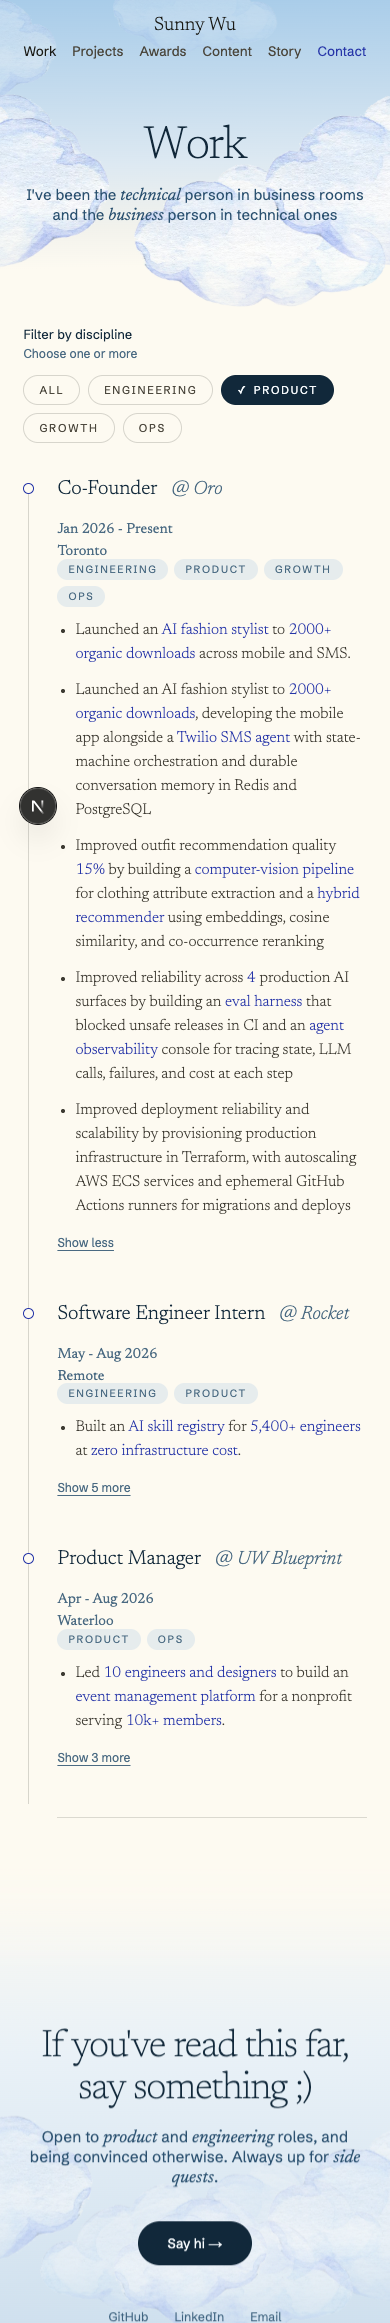
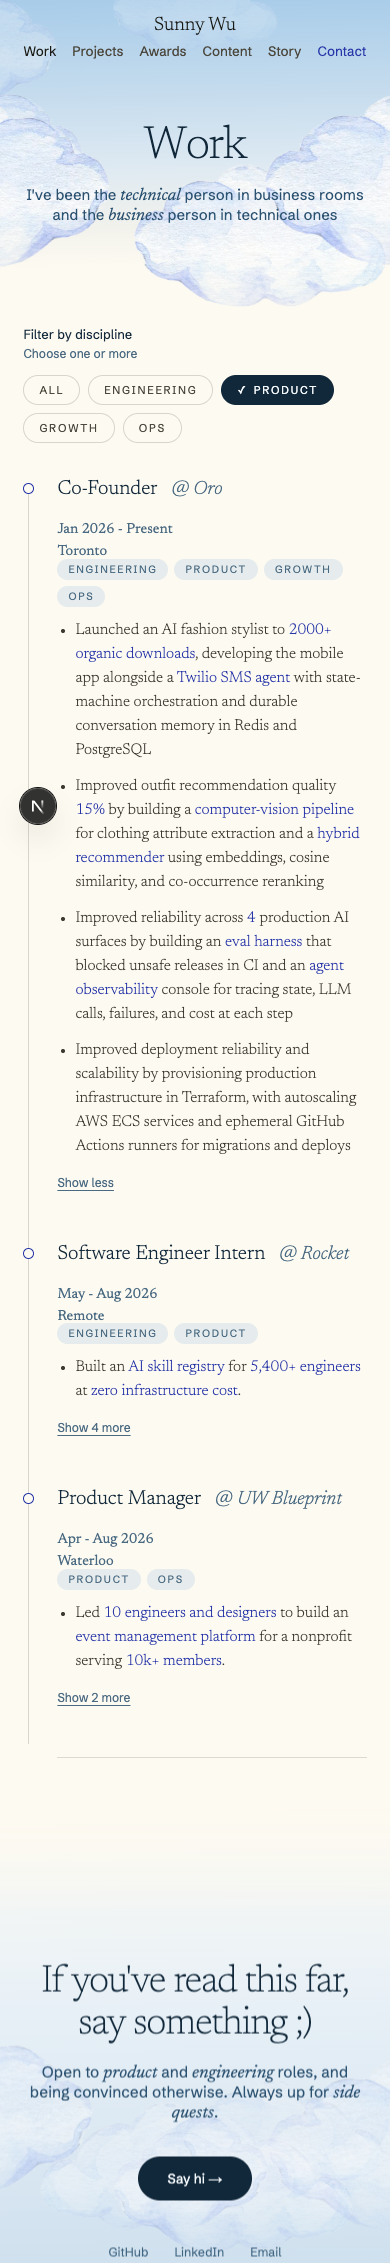
Swap summaries for full resume bullets when expanded

diff --git a/frontend/components/WorkTimeline.tsx b/frontend/components/WorkTimeline.tsx
@@ -211,9 +211,19 @@ export default function WorkTimeline() {
                 ))}
               </div>
 
-              <ul className="experience-bullets" style={{ color: color.body, fontFamily: font.serif }}>
-                <li>{highlightMetrics(role.summary ?? role.bullets[0])}</li>
-              </ul>
+              <div
+                id={`${roleSlug(role.company)}-preview`}
+                className={role.summary ? "experience-details" : undefined}
+                data-expanded={!role.summary || !expandedRoles.has(role.company)}
+                aria-hidden={!!role.summary && expandedRoles.has(role.company)}
+                inert={!!role.summary && expandedRoles.has(role.company)}
+              >
+                <div className="experience-details-inner">
+                  <ul className="experience-bullets" style={{ color: color.body, fontFamily: font.serif }}>
+                    <li>{highlightMetrics(role.summary ?? role.bullets[0])}</li>
+                  </ul>
+                </div>
+              </div>
               {role.bullets.length > (role.summary ? 0 : 1) && (
                 <div
                   id={`${roleSlug(role.company)}-bullets`}
@@ -236,8 +246,8 @@ export default function WorkTimeline() {
                   type="button"
                   aria-expanded={expandedRoles.has(role.company)}
                   className="experience-toggle"
-                  aria-controls={`${roleSlug(role.company)}-bullets`}
-                  aria-label={`${expandedRoles.has(role.company) ? "Show less" : `Show ${role.bullets.length - (role.summary ? 0 : 1)} more`} about ${role.company}`}
+                  aria-controls={`${roleSlug(role.company)}-preview ${roleSlug(role.company)}-bullets`}
+                  aria-label={`${expandedRoles.has(role.company) ? "Show less" : `Show ${role.bullets.length - 1} more`} about ${role.company}`}
                   onClick={() => setExpandedRoles((previous) => {
                     const next = new Set(previous);
                     if (next.has(role.company)) next.delete(role.company);
@@ -256,7 +266,7 @@ export default function WorkTimeline() {
                     textUnderlineOffset: 3,
                   }}
                 >
-                  {expandedRoles.has(role.company) ? "Show less" : `Show ${role.bullets.length - (role.summary ? 0 : 1)} more`}
+                  {expandedRoles.has(role.company) ? "Show less" : `Show ${role.bullets.length - 1} more`}
                 </button>
               )}
             </div>

diff --git a/frontend/lib/data.ts b/frontend/lib/data.ts
@@ -53,7 +53,7 @@ export interface Role {
   logo?: string;
   /** Braces mark the metrics and phrases that print in blue ink. */
   bullets: string[];
-  /** Short overview shown above the expandable resume details. */
+  /** Short overview that swaps to the original resume bullets when expanded. */
   summary?: string;
 }
 
